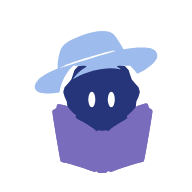
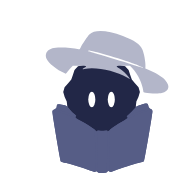
Test version: assistant back to theme shades, clearer difference
Claude-Session: https://claude.ai/code/session_01SnNWWGU4BvZ2AAGobJocPY

diff --git a/beta/index.html b/beta/index.html
@@ -3715,9 +3715,10 @@ function aiHebrewDate(d){const h=hd(d);return `${h.d} ${h.n[0]} ${h.y}`}
    adm:1 = admin-only → counts as small in the version but is never announced.
    The shown version (bottom of ⋯, popups) is worked out from these sizes by ccVerStr(). A batch shows the biggest kind it contains.
    Whole new feature -> may also set `tour:'<id>'` (an id in SETS inside ccTourStart) so "Show me" runs a live tour. */
-const CC_VER=220;
+const CC_VER=221;
 const CC_LOG=[
-  {v:180,new:['The stats rings now use the new wavy style too.']},{v:181,new:['Clearer stats screen: rings and buttons easy to see in the evening, round day dots.']},{v:182,new:['Easier to read around sunset, clearer selected buttons, neater month boxes.']},{v:183,new:['Matching shapes: reminder cards, ticked shiurim and the streak days.']},{v:184,new:['Material 3 shapes for the calendar markers, the streak days and the stats.']},{v:185,new:['Each shiur has its own shape in the stats.']},{v:186,mid:1,new:['Month view: tap a day to see what’s on it right under the week; tap it again to open the day.']},{v:187,new:['Smoother and lighter on the battery: faster day changes, quieter when idle.']},{v:188,mid:1,new:['New motion everywhere: springy, physical animations — windows grow from where you tap and their content flows in.']},{v:189,mid:1,new:['Real Material 3 motion: windows grow out of the button you tap and shrink back into it, swipes between days and months follow your finger and keep its speed, selected buttons slide to their new place.']},{v:190,new:['Faster, smoother animations.']},{v:191,new:['No more blue flash when you tap something.']},{v:192,mid:1,new:['Shapes change into other shapes: ticking a box turns its square into a scalloped cookie, the selected day becomes a new shape, switches and buttons morph when you press them.']},{v:193,new:['Fixed: tapping a shiur box ticks it again.']},{v:194,mid:1,new:['The siddur has a little compass arrow at the top that points toward Yerushalayim. Tap it to see the direction.']},{v:195,new:['The siddur arrow is now a soft triangle that points the way to daven (map direction or shortest path — tap it to choose).']},{v:196,new:['The siddur direction arrow has its new shape.']},{v:197,new:['The drop arrow and its flying bubbles are gone; the cards now simply slide up as you scroll.']},{v:198,new:['Windows open and close a little slower, so the motion is easier to enjoy.']},{v:199,new:['The month view no longer looks stretched: shorter day boxes, and windows keep their shape while they open.']},{v:200,mid:1,new:['In the siddur, swipe sideways to move between Shacharis, Mincha, Maariv, Bentching and Shema; swipe in from the left edge to close it.']},{v:201,new:['Month view: the shapes behind today and the selected day are no longer stretched sideways.']},{v:202,big:1,new:['Material 3 everywhere, fixed and finished: every window grows from its button and shrinks back into it (also the full-screen ones), text stays crisp while windows move, sliding highlights in the siddur tabs, the week strip follows your finger, predictive back, moving wavy rings, a new loader, pressed buttons make room for each other, and Material 3’s Roboto Flex font.']},{v:203,new:['Cleaner look: one font for all English, solid sheets, crisper scrolling, clearer selected day, tidier settings and shiurim, calmer dusk.']},{v:204,new:['Fixes from a full check: stats now count today properly, the phone’s Back button closes the How & when guide, clearer choices at night, and small tidy-ups in the siddur and assistant.']},{v:205,new:['The stats page is much lighter and smoother (it could freeze or close the app).']},{v:206,new:['Today’s streak shape now spins into a new shape and fills up a quarter for every shiur you check off.']},{v:207,new:['Today’s streak shape now really spins (a full turn) as it changes shape.']},{v:208,new:['The assistant button is now a silhouette in the app’s colour, with a shape-shifting head that spins as you scroll.']},{v:209,new:['The assistant button has small eyes again, sized for his new head.']},{v:210,new:['The assistant has the new look everywhere he appears — every window and the notifications.']},{v:211,new:['His head stays still while he’s asleep.']},{v:220,new:['The assistant\'s colours: a light-blue hat, a purple-ish book and a dark-blue head.']},
+  {v:180,new:['The stats rings now use the new wavy style too.']},{v:181,new:['Clearer stats screen: rings and buttons easy to see in the evening, round day dots.']},{v:182,new:['Easier to read around sunset, clearer selected buttons, neater month boxes.']},{v:183,new:['Matching shapes: reminder cards, ticked shiurim and the streak days.']},{v:184,new:['Material 3 shapes for the calendar markers, the streak days and the stats.']},{v:185,new:['Each shiur has its own shape in the stats.']},{v:186,mid:1,new:['Month view: tap a day to see what’s on it right under the week; tap it again to open the day.']},{v:187,new:['Smoother and lighter on the battery: faster day changes, quieter when idle.']},{v:188,mid:1,new:['New motion everywhere: springy, physical animations — windows grow from where you tap and their content flows in.']},{v:189,mid:1,new:['Real Material 3 motion: windows grow out of the button you tap and shrink back into it, swipes between days and months follow your finger and keep its speed, selected buttons slide to their new place.']},{v:190,new:['Faster, smoother animations.']},{v:191,new:['No more blue flash when you tap something.']},{v:192,mid:1,new:['Shapes change into other shapes: ticking a box turns its square into a scalloped cookie, the selected day becomes a new shape, switches and buttons morph when you press them.']},{v:193,new:['Fixed: tapping a shiur box ticks it again.']},{v:194,mid:1,new:['The siddur has a little compass arrow at the top that points toward Yerushalayim. Tap it to see the direction.']},{v:195,new:['The siddur arrow is now a soft triangle that points the way to daven (map direction or shortest path — tap it to choose).']},{v:196,new:['The siddur direction arrow has its new shape.']},{v:197,new:['The drop arrow and its flying bubbles are gone; the cards now simply slide up as you scroll.']},{v:198,new:['Windows open and close a little slower, so the motion is easier to enjoy.']},{v:199,new:['The month view no longer looks stretched: shorter day boxes, and windows keep their shape while they open.']},{v:200,mid:1,new:['In the siddur, swipe sideways to move between Shacharis, Mincha, Maariv, Bentching and Shema; swipe in from the left edge to close it.']},{v:201,new:['Month view: the shapes behind today and the selected day are no longer stretched sideways.']},{v:202,big:1,new:['Material 3 everywhere, fixed and finished: every window grows from its button and shrinks back into it (also the full-screen ones), text stays crisp while windows move, sliding highlights in the siddur tabs, the week strip follows your finger, predictive back, moving wavy rings, a new loader, pressed buttons make room for each other, and Material 3’s Roboto Flex font.']},{v:203,new:['Cleaner look: one font for all English, solid sheets, crisper scrolling, clearer selected day, tidier settings and shiurim, calmer dusk.']},{v:204,new:['Fixes from a full check: stats now count today properly, the phone’s Back button closes the How & when guide, clearer choices at night, and small tidy-ups in the siddur and assistant.']},{v:205,new:['The stats page is much lighter and smoother (it could freeze or close the app).']},{v:206,new:['Today’s streak shape now spins into a new shape and fills up a quarter for every shiur you check off.']},{v:207,new:['Today’s streak shape now really spins (a full turn) as it changes shape.']},{v:208,new:['The assistant button is now a silhouette in the app’s colour, with a shape-shifting head that spins as you scroll.']},{v:209,new:['The assistant button has small eyes again, sized for his new head.']},{v:210,new:['The assistant has the new look everywhere he appears — every window and the notifications.']},{v:211,new:['His head stays still while he’s asleep.']},{v:221,new:['The assistant is back in the app\'s own colour, with a clearer light hat and a darker head.']},
+{v:220,new:['The assistant\'s colours: a light-blue hat, a purple-ish book and a dark-blue head.']},
 {v:219,new:['The assistant now has three shades: a light hat, his book in the app colour, and the darkest head.']},
 {v:218,new:['The sun turns soft peach at sunrise and sunset, and the sun and moon slowly turn and change between rounded shapes as they move across the sky.']},
 {v:217,new:['The sun and moon have a new look: a soft pastel-yellow sun and a periwinkle moon with darker craters, in rounded Material 3 shapes. The moon still shows its real phase.']},
@@ -5902,8 +5903,8 @@ body.wm-pb.sd-hide>*{visibility:visible!important}
 .cch .c-fh{display:none}
 :root:not(.tt-off-fabsil):not(.tt-off-m3) .cch:not(.csil){--ink:var(--m3p);--fill:var(--m3p);--halo:transparent}
 /* v219 (owner: "make the character's head a darker colour than the rest of his body … his sefer body darker than the hat, the head the darkest"): three tones of the theme colour — hat lightest, book the theme colour, head darkest (switch fabsil) */
-:root:not(.tt-off-fabsil):not(.tt-off-m3) .cch:not(.csil){--chT:#9dbbec;--chB:#7a6cbc;--chH:#26357a}/* v220 (owner: "hat light blue, body almost purple-ish, head dark blue") */
-:root:not(.tt-off-fabsil):not(.tt-off-m3):is([data-night="1"],[data-theme="dark"]) .cch:not(.csil),:root:not(.tt-off-fabsil):not(.tt-off-m3) #shabGate .cch{--chT:#bcd2fa;--chB:#a597e2;--chH:#4256ad}
+:root:not(.tt-off-fabsil):not(.tt-off-m3) .cch:not(.csil){--chT:color-mix(in srgb,var(--m3p) 45%,#fff);--chB:var(--m3p);--chH:color-mix(in srgb,var(--m3p) 24%,#121633)}/* v221 (owner: "the last one was better but make the difference a little clearer"): back to the theme's own colour in three shades, further apart */
+:root:not(.tt-off-fabsil):not(.tt-off-m3):is([data-night="1"],[data-theme="dark"]) .cch:not(.csil),:root:not(.tt-off-fabsil):not(.tt-off-m3) #shabGate .cch{--chH:color-mix(in srgb,var(--m3p) 40%,#121633)}
 :root:not(.tt-off-fabsil):not(.tt-off-m3) .cch:not(.csil) :is(.c-hat,.c-hatb){--ink:var(--chT);--fill:var(--chT)}
 :root:not(.tt-off-fabsil):not(.tt-off-m3) .cch:not(.csil) .c-book{--ink:var(--chB);--fill:var(--chB)}
 :root:not(.tt-off-fabsil):not(.tt-off-m3):is([data-night="1"],[data-theme="dark"]) .cch:not(.csil),:root:not(.tt-off-fabsil):not(.tt-off-m3) #shabGate .cch{--m3op:#eef0ff}/* the darker head needs light eyes at night */

diff --git a/CLAUDE.md b/CLAUDE.md
@@ -67,6 +67,7 @@ Do not add files named `index (1).html` or similar: only `index.html` is served.
 - **v218 (owner: "make the sun's colour change for sunrise and sunset … shapes in more variety … lightly spin as they move along the sky and morph into different shapes"):** in the v217 block. Sun colour: the script reads `--sunc` every 20 s (its green channel 224 at midday → 134 at the horizon) and sets `--sunw` = ((224−g)/90)^1.4 on `:root`; the disc is `color-mix` from pastel yellow (#f2e6b8/#e8d69e) to pastel peach-coral (#f8cfb0/#eda988) by `--sunw`, the halo the same. Shapes: generated keyframes in `<style id="cc-m3skykf">` — `m3sunM` (60 s) and `m3moonM` (90 s), 41 stops of `clip-path: polygon(72 points)` cycling five soft rounded shapes each (sun [n,a,p]: 9/.085, 7/.1, 12/.06, 6/.12^1.6, 8/.09; moon gentler: 9/.06, 7/.07, 11/.045, 5/.08^1.4, 8/.055), each held ~55% of its slot then smoothstep-morphed into the next (same sample angles → a clean radial morph), while the shape turns one full turn per loop (the turn is inside the polygons, so the moon's phase and craters stay upright — the moon SVG is now a full square and the CSS clip on `img.mimg` gives its shape). Paused under `cc-still`/`cc-away`/`cc-cover`, static under reduced motion. Cost: ~10% more idle style work while visible (8 s, 4× throttle). Test: scratchpad `stp/morphsky.js` (env `L`, `FR` frames, `GAP` ms).
 - **v219 (owner: "make the character's head a darker colour than the rest of his body … his sefer body darker than the hat, the head the darkest"):** in the v208 block (switch `fabsil`): `--chT` hat = `--m3p` 60% + white, `--chB` book = `--m3p`, `--chH` head = `--m3p` 38% + #161a3c; set by overriding `--ink`/`--fill` on `.c-hat/.c-hatb` and `.c-book` (their parts read those vars), and `.c-fh{fill:var(--chH)}` (the older `.c-fh{display:inline;fill:var(--m3p)}` rules were changed too — they came later in the file and won). At night/dusk (`data-night`/`data-theme=dark`) and on the Shabbos screen the eyes are light (`--m3op:#eef0ff`) so they show on the darker head. Notification pictures (`assets/char/c1..9.png`, `native/assets/char/cc_char1..9.png`) re-rendered with the three tones (scratchpad `stp/notif.js`, run from `stp/nt/`). Test: scratchpad `stp/tone.js` (+ button and assistant sheet, day and night, 4×).
 - **v220 (owner: "hat light blue, body almost purple-ish, head dark blue"):** the v219 tones are now fixed hues: day `--chT` #9dbbec / `--chB` #7a6cbc / `--chH` #26357a; night, dusk and the Shabbos screen #bcd2fa / #a597e2 / #4256ad (light eyes as before). Notification pictures re-rendered (scratchpad `stp/notif.js` from `stp/nt/`).
+- **v221 (owner: "never mind, the last one was better but make the difference a little clearer"):** v220's fixed hues are gone; back to the theme colour in three shades, further apart: hat `--m3p` 45% + white, book `--m3p`, head `--m3p` 24% + #121633 by day (40% at night/dusk/Shabbos screen so it doesn't vanish into the dark sky). Notification pictures re-rendered.
 - **v191 (owner: "when I click on something it turns blue, and only then it opens"):** top of `cc-m3x`: `-webkit-tap-highlight-color:transparent` on every element (it was only set on ~10), `user-select:none` + `-webkit-touch-callout:none` on tappable things (buttons, links, chips, cards, day cells, dock…; text in the reader/inputs stays selectable), and no focus outline after a tap (`:focus:not(:focus-visible)`; keyboard focus still shows).
 - **Per-profile storage:** `AK(key)`, `ST(key,default)`. Local profiles and a login gate exist (`cc_local_profiles_v1`).
 - **Accounts saved online (owner, v89; v91: Create account asks for the password twice, `#accountPass2`, shown only in create mode: "if someone logs in on a different phone or uninstalls and reinstalls, it still has all his stuff").** Push server `/acct/new|login|sync` (origin-locked; KV `acct:<user>` = `{s salt, h PBKDF2-SHA256 10k, tk: last 12 session tokens, d:{key:[value,time]}, r revision, f/ft failed sign-ins → 8 fails = 10 min lock}`; user `test` refused). The sign-in script (`window.ccAcct`) sends the typed password only to the server (the phone still keeps its old FNV `passwordHash` for offline sign-in) and keeps a token in `cc_sync_<user>` = `{t, r, h:{key: FNV hash last synced}, at}`. Synced = every `cc_profile_<user>_*` key except `cc_sd_pos`/`cc_test_*`, plus `@seen` (`cc_seen_ver_<u>`) and `@tour` (`cc_local_tour_done_<u>`). `sync(u)`: changed keys go up as `[value, time, base hash]`; the server applies a change only if its copy still matches the base, otherwise the phone merges (`merge`: JSON objects unioned one level deep, server wins a clash — so shiurim ticked on two phones are kept) and sends again. Create account = registers on the server (409 → "taken"; no internet → phone-only account, backed up later). Log in with a name unknown on this phone → `/acct/login` → the server copy is written to the phone (`applyAll`). Existing signed-in users with no token get a one-time-per-opening card `#bkCard` ("Keep your account safe": type the password; if the name is someone else's on the server, pick a new one → `ccAcct.rename` moves the phone's data). Runner (block after `acctOut` in the main script): sync 1.5 s after opening, on leaving the app, on return (after 60 s), every 2 min while open; reads are cheap, a write only when something changed (KV free plan: 1000 writes/day). New data from another phone → quiet reload (while hidden, or within 20 s of opening if untouched; else on leaving). ⋯ account card line `#acctBk` ("☁ Saved to your account · 3 min ago" / "Not saved… Tap to fix"). Test: scratchpad `acct/e2e.js` (routes the app's requests into `server/worker.js` with a fake KV: create, second phone, both phones changing, old user card, name taken → rename), `acct/wt.mjs`. **Needs the worker deployed** (owner pastes it into Cloudflare).
